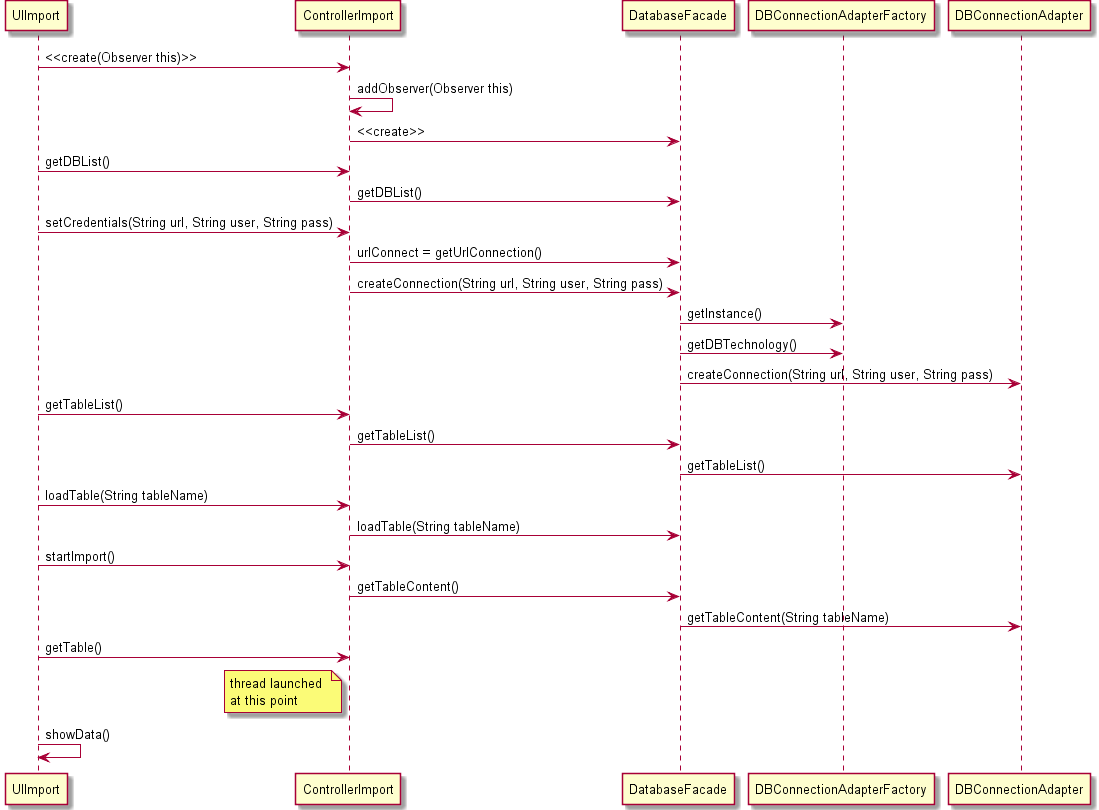
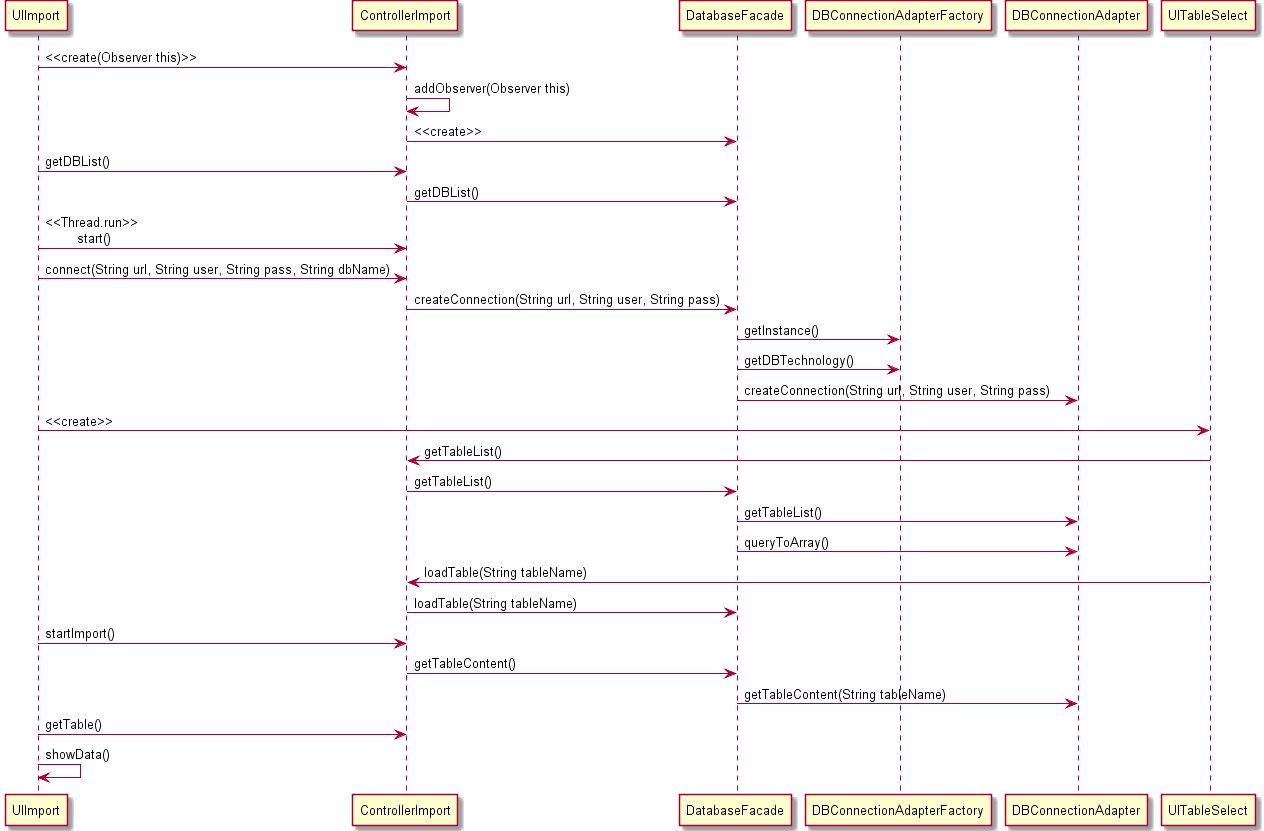
1111168: updatede sd for import from database ref #9

diff --git a/src/csheets/ext/database/package-info.java b/src/csheets/ext/database/package-info.java
@@ -156,31 +156,30 @@
  DatabaseFacade -> DBConnectionStrategy: disconnect()
  @enduml
 
- @startuml doc-files/use_case_realization_DBimport.png
+@startuml doc-files/use_case_realization_DBimport.png
  UIImport -> ControllerImport:  <<create(Observer this)>>
  ControllerImport -> ControllerImport: addObserver(Observer this)
  ControllerImport -> DatabaseFacade: <<create>>
  UIImport -> ControllerImport: getDBList()
  ControllerImport -> DatabaseFacade: getDBList()
- UIImport -> ControllerImport: setCredentials(String url, String user, String pass)
- ControllerImport -> DatabaseFacade: urlConnect = getUrlConnection()
+ UIImport -> ControllerImport: <<Thread.run>>\n\tstart()
+ UIImport -> ControllerImport: connect(String url, String user, String pass, String dbName)
  ControllerImport -> DatabaseFacade: createConnection(String url, String user, String pass)
  DatabaseFacade -> DBConnectionAdapterFactory: getInstance()
  DatabaseFacade -> DBConnectionAdapterFactory: getDBTechnology()
  DatabaseFacade -> DBConnectionAdapter: createConnection(String url, String user, String pass)
- UIImport -> ControllerImport: getTableList()
+ UIImport -> UITableSelect: <<create>>
+ UITableSelect -> ControllerImport: getTableList()
  ControllerImport -> DatabaseFacade: getTableList()
  DatabaseFacade -> DBConnectionAdapter: getTableList()
- UIImport -> ControllerImport: loadTable(String tableName)
+ DatabaseFacade -> DBConnectionAdapter: queryToArray() 
+
+ UITableSelect -> ControllerImport: loadTable(String tableName)
  ControllerImport -> DatabaseFacade: loadTable(String tableName)
  UIImport -> ControllerImport: startImport()
  ControllerImport -> DatabaseFacade: getTableContent()
  DatabaseFacade -> DBConnectionAdapter: getTableContent(String tableName)
  UIImport -> ControllerImport: getTable()
- note left of ControllerImport
- thread launched 
- at this point
- end note
  UIImport -> UIImport: showData()
  @enduml
 
